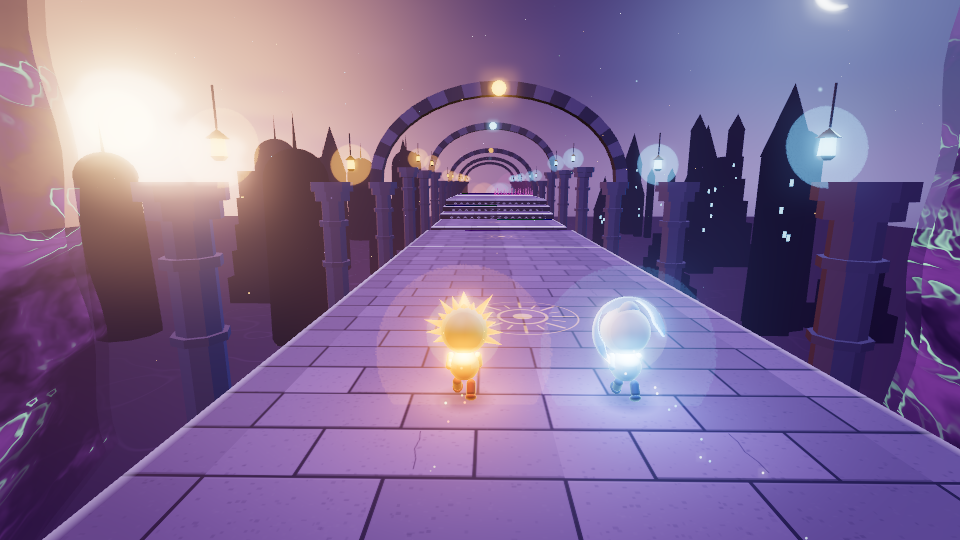
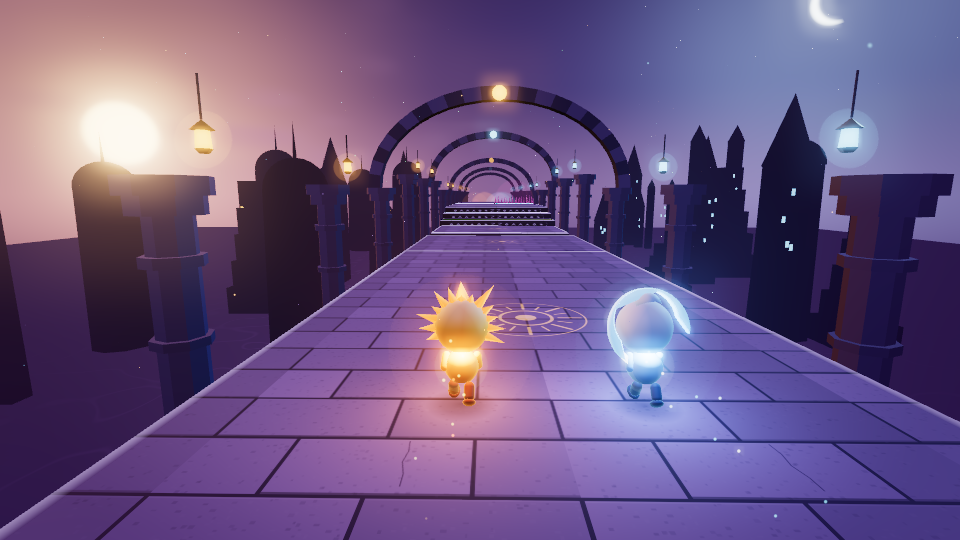
WIP Runner 3D renderer: glyph runes, deeper abyss, hazy silhouettes, softer thorn glow, bots keep apart, shot tool recovers from a stuck page

diff --git a/tools/r3d-shots.js b/tools/r3d-shots.js
@@ -35,6 +35,9 @@ const SHOTS = [
   ['pool', 'seed=7&kind=pool', 60],
   ['spikes', 'seed=7&kind=spikes', 60],
   ['low', 'seed=7&z=140&q=low', 150],
+  ['chars-front', 'seed=7&count=1&cam=0.9,1.1,3.4', 30],
+  ['chars-run', 'seed=7&z=20&cam=2.6,1.0,1.2', 60],
+  ['chars-luna', 'seed=7&count=1&me=1&cam=-0.9,1.1,3.4', 30],
 ];
 // one shot per obstacle kind (the demo starts a few units before the first object of that kind)
 for (const k of ['ramp', 'tilt', 'crumble', 'eclipse', 'sweeper', 'pendulum', 'carousel', 'gate', 'orb']) SHOTS.push(['kind-' + k, `seed=7&kind=${k}`, 60]);
@@ -83,21 +86,29 @@ const cmd = (method, params = {}, sessionId) => new Promise((res, rej) => {
   ws.send(JSON.stringify({ id: i, method, params, sessionId }));
 });
 
-const { targetId } = await cmd('Target.createTarget', { url: 'about:blank' });
-const { sessionId: s } = await cmd('Target.attachToTarget', { targetId, flatten: true });
+let targetId, s;
 const send = (m, p) => cmd(m, p, s);
-const ev = async (expr) => {
-  const r = await send('Runtime.evaluate', { expression: expr, awaitPromise: true, returnByValue: true });
+async function openPage() {   // a fresh tab (also after a page that stopped answering)
+  if (targetId) await cmd('Target.closeTarget', { targetId }).catch(() => {});
+  ({ targetId } = await cmd('Target.createTarget', { url: 'about:blank' }));
+  ({ sessionId: s } = await cmd('Target.attachToTarget', { targetId, flatten: true }));
+  await send('Page.enable'); await send('Runtime.enable');
+  await send('Emulation.setDeviceMetricsOverride', { width: W, height: H, deviceScaleFactor: 1, mobile: false });
+}
+const ev = async (expr, ms = +(process.env.EVAL_MS || 90000)) => {
+  let tm;
+  const r = await Promise.race([send('Runtime.evaluate', { expression: expr, awaitPromise: true, returnByValue: true }),
+    new Promise((_, rej) => { tm = setTimeout(() => rej(new Error('page did not answer in ' + ms + ' ms')), ms); })]).finally(() => clearTimeout(tm));
   if (r.exceptionDetails) throw new Error('page: ' + (r.exceptionDetails.exception?.description || r.exceptionDetails.text));
   return r.result.value;
 };
-await send('Page.enable'); await send('Runtime.enable');
+await openPage();
 log('page ready');
-await send('Emulation.setDeviceMetricsOverride', { width: W, height: H, deviceScaleFactor: 1, mobile: false });
 
 let failed = 0;
 try {
   for (const [name, q, steps, setup] of list) {
+   try {
     logs.length = 0;
     await send('Page.navigate', { url: `${BASE}/r3d-demo.html?hud=0&auto=0&${q}` });
     let ok = false;
@@ -110,7 +121,10 @@ try {
     // render every EVERY-th step (cameras ease by sim time, so they settle the same)
     const EVERY = +(process.env.EVERY || 3);
     log(name, 'loaded, stepping', steps);
-    for (let k = 0; k < steps; k += 12) await ev(`for (let j = 0; j < ${Math.min(12, steps - k)}; j++) { __r3d.step(1); if ((${k} + j) % ${EVERY} === 0) __r3d.render(); }`);
+    for (let k = 0; k < steps; k += 12) {
+      if (k % 36 === 0) log(name, 'step', k);
+      await ev(`for (let j = 0; j < ${Math.min(12, steps - k)}; j++) { __r3d.step(1); if ((${k} + j) % ${EVERY} === 0) __r3d.render(); }`);
+    }
     const st = await ev('__r3d.render()');
     const ms = steps ? (Date.now() - t0) / steps : 0;
     await sleep(50);
@@ -118,6 +132,7 @@ try {
     writeFileSync(join(OUT, `render-${name}.png`), Buffer.from(shot.data, 'base64'));
     console.log(`${name.padEnd(12)} ${String(st.calls).padStart(4)} calls ${String(Math.round(st.triangles / 1000)).padStart(5)}k tris  ${st.views} views  ${st.level}  ~${ms.toFixed(0)} ms/frame (software GL)  -> ${join(OUT, `render-${name}.png`)}`);
     if (logs.length) console.log('   ', logs.slice(0, 6).join('\n    '));
+   } catch (e) { console.log(name, 'FAILED', e.message, logs.slice(0, 6).join(' | ')); failed++; await openPage().catch(() => {}); }
   }
 } catch (e) { console.error(e); failed++; }
 await cmd('Target.closeTarget', { targetId }).catch(() => {});

diff --git a/public/js/r3d/kit.js b/public/js/r3d/kit.js
@@ -161,21 +161,25 @@ export function textures() {
     }
     g.restore();
   }, { srgb: false });
-  // A strip of glowing runes (repeats along u).
+  // A strip of glowing runes (repeats along u): sun, moon and star marks, no letter shapes.
   _tex.runes = canvasTex(512, 64, (g) => {
-    g.strokeStyle = '#fff'; g.lineWidth = 4; g.lineCap = 'round'; g.lineJoin = 'round';
+    g.strokeStyle = '#fff'; g.fillStyle = '#fff'; g.lineWidth = 3.5; g.lineCap = 'round'; g.lineJoin = 'round';
+    const TAU = Math.PI * 2;
     for (let k = 0; k < 8; k++) {
-      const x = k * 64 + 32, y = 32, s = 18, t = Math.floor(hash(k, 77) * 6);
+      const x = k * 64 + 32, y = 32, s = 15, t = k % 8;
       g.beginPath();
-      if (t === 0) { g.arc(x, y, s * 0.7, 0, Math.PI * 2); g.moveTo(x, y - s); g.lineTo(x, y + s); }
-      else if (t === 1) { g.moveTo(x - s, y + s); g.lineTo(x, y - s); g.lineTo(x + s, y + s); g.moveTo(x - s * 0.5, y + 2); g.lineTo(x + s * 0.5, y + 2); }
-      else if (t === 2) { g.arc(x, y, s * 0.8, Math.PI * 0.3, Math.PI * 1.7); g.moveTo(x + s * 0.2, y - s); g.lineTo(x + s * 0.2, y + s); }
-      else if (t === 3) { g.moveTo(x - s, y); g.lineTo(x + s, y); g.moveTo(x, y - s); g.lineTo(x, y + s); g.moveTo(x - s * 0.6, y - s * 0.6); g.lineTo(x + s * 0.6, y + s * 0.6); }
-      else if (t === 4) { g.moveTo(x - s, y - s); g.lineTo(x + s, y - s); g.lineTo(x - s, y + s); g.lineTo(x + s, y + s); }
-      else { g.arc(x, y, s * 0.4, 0, Math.PI * 2); g.moveTo(x - s, y + s); g.lineTo(x - s * 0.4, y + s * 0.4); g.moveTo(x + s, y + s); g.lineTo(x + s * 0.4, y + s * 0.4); g.moveTo(x, y - s); g.lineTo(x, y - s * 0.4); }
+      if (t === 0) { g.arc(x, y, s * 0.45, 0, TAU); for (let a = 0; a < 8; a++) { const c = Math.cos(a * TAU / 8), d = Math.sin(a * TAU / 8); g.moveTo(x + c * s * 0.7, y + d * s * 0.7); g.lineTo(x + c * s, y + d * s); } }
+      else if (t === 1) { g.arc(x, y, s * 0.85, Math.PI * 0.35, Math.PI * 1.65); g.arc(x + s * 0.4, y, s * 0.62, Math.PI * 1.45, Math.PI * 0.55, true); g.closePath(); }
+      else if (t === 2) { g.moveTo(x, y - s); g.lineTo(x + s * 0.7, y); g.lineTo(x, y + s); g.lineTo(x - s * 0.7, y); g.closePath(); g.stroke(); g.beginPath(); g.arc(x, y, 3, 0, TAU); g.fill(); g.beginPath(); }
+      else if (t === 3) { g.arc(x, y, s * 0.9, 0, TAU); g.moveTo(x + s * 0.4, y); g.arc(x, y, s * 0.4, 0, TAU); }
+      else if (t === 4) { for (let a = 0; a < 4; a++) { const c = Math.cos(a * TAU / 4), d = Math.sin(a * TAU / 4); g.moveTo(x, y); g.quadraticCurveTo(x + (c - d) * s * 0.25, y + (d + c) * s * 0.25, x + c * s, y + d * s); g.quadraticCurveTo(x + (c + d) * s * 0.25, y + (d - c) * s * 0.25, x, y); } }
+      else if (t === 5) { g.arc(x - s * 0.3, y, s * 0.6, Math.PI * 0.5, Math.PI * 1.5); g.moveTo(x + s * 0.3, y - s * 0.6); g.arc(x + s * 0.3, y, s * 0.6, -Math.PI * 0.5, Math.PI * 0.5); g.moveTo(x, y - s); g.lineTo(x, y + s); }
+      else if (t === 6) { g.arc(x, y - s * 0.35, s * 0.5, Math.PI, 0); g.moveTo(x - s, y + s * 0.3); g.lineTo(x + s, y + s * 0.3); g.moveTo(x - s * 0.5, y + s * 0.75); g.lineTo(x + s * 0.5, y + s * 0.75); }
+      else { g.arc(x, y, s * 0.8, Math.PI * 0.2, Math.PI * 1.8); g.stroke(); g.beginPath(); g.arc(x + s * 0.2, y, 3.2, 0, TAU); g.fill(); g.beginPath(); }
       g.stroke();
+      g.beginPath(); g.arc(k * 64, y, 2.2, 0, TAU); g.fill();
     }
-    g.fillStyle = 'rgba(255,255,255,0.6)'; g.fillRect(0, 4, 512, 2); g.fillRect(0, 58, 512, 2);
+    g.fillStyle = 'rgba(255,255,255,0.55)'; g.fillRect(0, 5, 512, 2); g.fillRect(0, 57, 512, 2);
   }, { repeat: true, srgb: false });
   return _tex;
 }

diff --git a/public/js/r3d/world.js b/public/js/r3d/world.js
@@ -78,7 +78,7 @@ export function makeAbyss() {
         float n = vn(p + uTime * 0.03) * 0.6 + vn(p * 2.3 - uTime * 0.05) * 0.4;
         float vein = smoothstep(0.47, 0.5, n) * smoothstep(0.53, 0.5, n);
         float cx = exp(-abs(vW.x) * 0.05);
-        vec3 c = vec3(0.09, 0.045, 0.17) * (0.6 + 0.6 * cx) + vec3(0.35, 0.15, 0.55) * vein * 0.5 * cx;
+        vec3 c = vec3(0.03, 0.016, 0.06) * (0.7 + 0.9 * cx) + vec3(0.32, 0.12, 0.5) * vein * 0.45 * cx;
         gl_FragColor = vec4(c, 1.0);
         #include <tonemapping_fragment>
         #include <colorspace_fragment>
@@ -212,7 +212,7 @@ export class WorldDeco {
     this.pillarMat = patchWorld(new THREE.MeshStandardMaterial({ vertexColors: true, roughness: 0.85, flatShading: true }), { key: 'pil' });
     this.archMat = patchWorld(new THREE.MeshStandardMaterial({ vertexColors: true, roughness: 0.8, flatShading: true, map: null }), { key: 'arc' });
     this.silMat = new THREE.MeshBasicMaterial({ color: 0x1a1230, fog: true });
-    this.silMat.onBeforeCompile = (sh) => { sh.fragmentShader = sh.fragmentShader.replace('#include <fog_fragment>', '#ifdef USE_FOG\n float ff = smoothstep(fogNear, fogFar, vFogDepth) * 0.55;\n gl_FragColor.rgb = mix(gl_FragColor.rgb, fogColor, ff);\n#endif'); };
+    this.silMat.onBeforeCompile = (sh) => { sh.fragmentShader = sh.fragmentShader.replace('#include <fog_fragment>', '#ifdef USE_FOG\n float ff = 0.35 + smoothstep(fogNear, fogFar * 1.6, vFogDepth) * 0.5;\n gl_FragColor.rgb = mix(gl_FragColor.rgb, vec3(0.16, 0.1, 0.25), ff);\n#endif'); };
     this.silMat.customProgramCacheKey = () => 'sil';
     this.winMats = [new THREE.MeshBasicMaterial({ color: col(0xffb860).multiplyScalar(1.6), fog: false }), new THREE.MeshBasicMaterial({ color: col(0x8fd0ff).multiplyScalar(1.4), fog: false })];
     this.pillarG = pillarGeometry();

diff --git a/public/r3d-demo.html b/public/r3d-demo.html
@@ -16,7 +16,7 @@
 <canvas id="c"></canvas>
 <div id="hud"></div>
 <div id="help">Bots run both players. Take over Sol: arrows + Enter (jump). Luna: WASD + Space.
-?seed= ?split=1 ?me=1 ?z= ?kind= ?q=high|low ?count=1 ?bot=0 ?hud=0 ?auto=0</div>
+?seed= ?split=1 ?me=1 ?z= ?kind= ?q=high|low ?count=1 ?bot=0 ?hud=0 ?auto=0 ?cam=dx,dy,dz</div>
 <script type="module">
 import * as R3 from '/shared/runner3d.js';
 import { Runner3DRenderer } from '/js/r3d/renderer.js';
@@ -86,7 +86,8 @@ function botBits(i) {
   for (let dx = -4; dx <= 4; dx += 0.5) {
     const x = p.x + dx; let s = 0;
     for (let a = 1; a <= 6; a++) if (safe(x, p.z + a)) s++;
-    s -= Math.abs(dx) * 0.15 + Math.abs(x) * 0.05;
+    const o = S.p[1 - i];
+    s -= Math.abs(dx) * 0.15 + Math.abs(x) * 0.05 + (o.alive && Math.abs(x - o.x) < 1.2 && Math.abs(o.z - p.z) < 3 ? 2.5 : 0) + (i ? (x < o.x ? 0.6 : 0) : (x > o.x ? 0.6 : 0));
     if (s > bestScore) { bestScore = s; tx = x; }
   }
   if (tx < p.x - 0.2) b |= R3.IN_L; else if (tx > p.x + 0.2) b |= R3.IN_R;
@@ -99,6 +100,7 @@ function botBits(i) {
 // --- loop: fixed 60 Hz sim, interpolated view
 const r = new Runner3DRenderer(canvas);
 if (Q.has('q')) r.setQuality(Q.get('q'));
+if (Q.has('cam')) { const c = Q.get('cam').split(',').map(Number); for (const rg of r.rigs) rg.override = c; }
 r.reset(L);
 const fit = () => r.resize(innerWidth, innerHeight, devicePixelRatio || 1);
 addEventListener('resize', fit); fit();

diff --git a/public/js/r3d/renderer.js b/public/js/r3d/renderer.js
@@ -69,6 +69,11 @@ class CamRig {
       target.x += Math.sin(time * 0.3) * 0 + (this.i ? 1 : -1) * 4.5 * e; target.y += 4 * e; target.z += 5 * e;
     }
     if (!alive) { target.y += 1.2; look.set(p.x, Math.max(p.y, this.y - 4), -p.z); }
+    if (this.override) {   // debug close-ups (demo ?cam=dx,dy,dz): offset from the player in sim units, looking at them
+      const [dx, dy, dz] = this.override;
+      target.set(p.x + dx, p.y + dy, -(p.z + dz)); look.set(p.x, p.y + 0.75, -p.z);
+      this.pos = null;
+    }
     if (this.pos == null) { this.pos = target.clone(); this.look.copy(look); }
     const kp = Math.min(1, dt * (alive ? 9 : 2)), kl = Math.min(1, dt * (alive ? 10 : 3));
     this.pos.x += (target.x - this.pos.x) * kp;

diff --git a/public/js/r3d/views.js b/public/js/r3d/views.js
@@ -208,7 +208,7 @@ VIEWS.spikes = {
   update(v, o, st, pose, ctx) {
     const u = v.userData;
     const tw = 0.5 + 0.5 * Math.sin(ctx.time * 3 + ctx.idx);
-    ctx.glow.add(v.position.x, v.position.y + u.th * 0.6, v.position.z, Math.max(u.w, u.d) * 0.8 + 0.8, 0xff5ad0, 0.2 + 0.08 * tw);
+    ctx.glow.add(v.position.x, v.position.y + u.th * 0.5, v.position.z, Math.min(2.2, Math.min(u.w, u.d) + 0.6), 0xff5ad0, 0.08 + 0.04 * tw);
     if (Math.random() < ctx.dt * 1.5) {
       ctx.glow.add(v.position.x + (Math.random() - 0.5) * u.w, v.position.y + u.th, v.position.z + (Math.random() - 0.5) * u.d, 0.6, 0xffffff, 0.9);
     }
